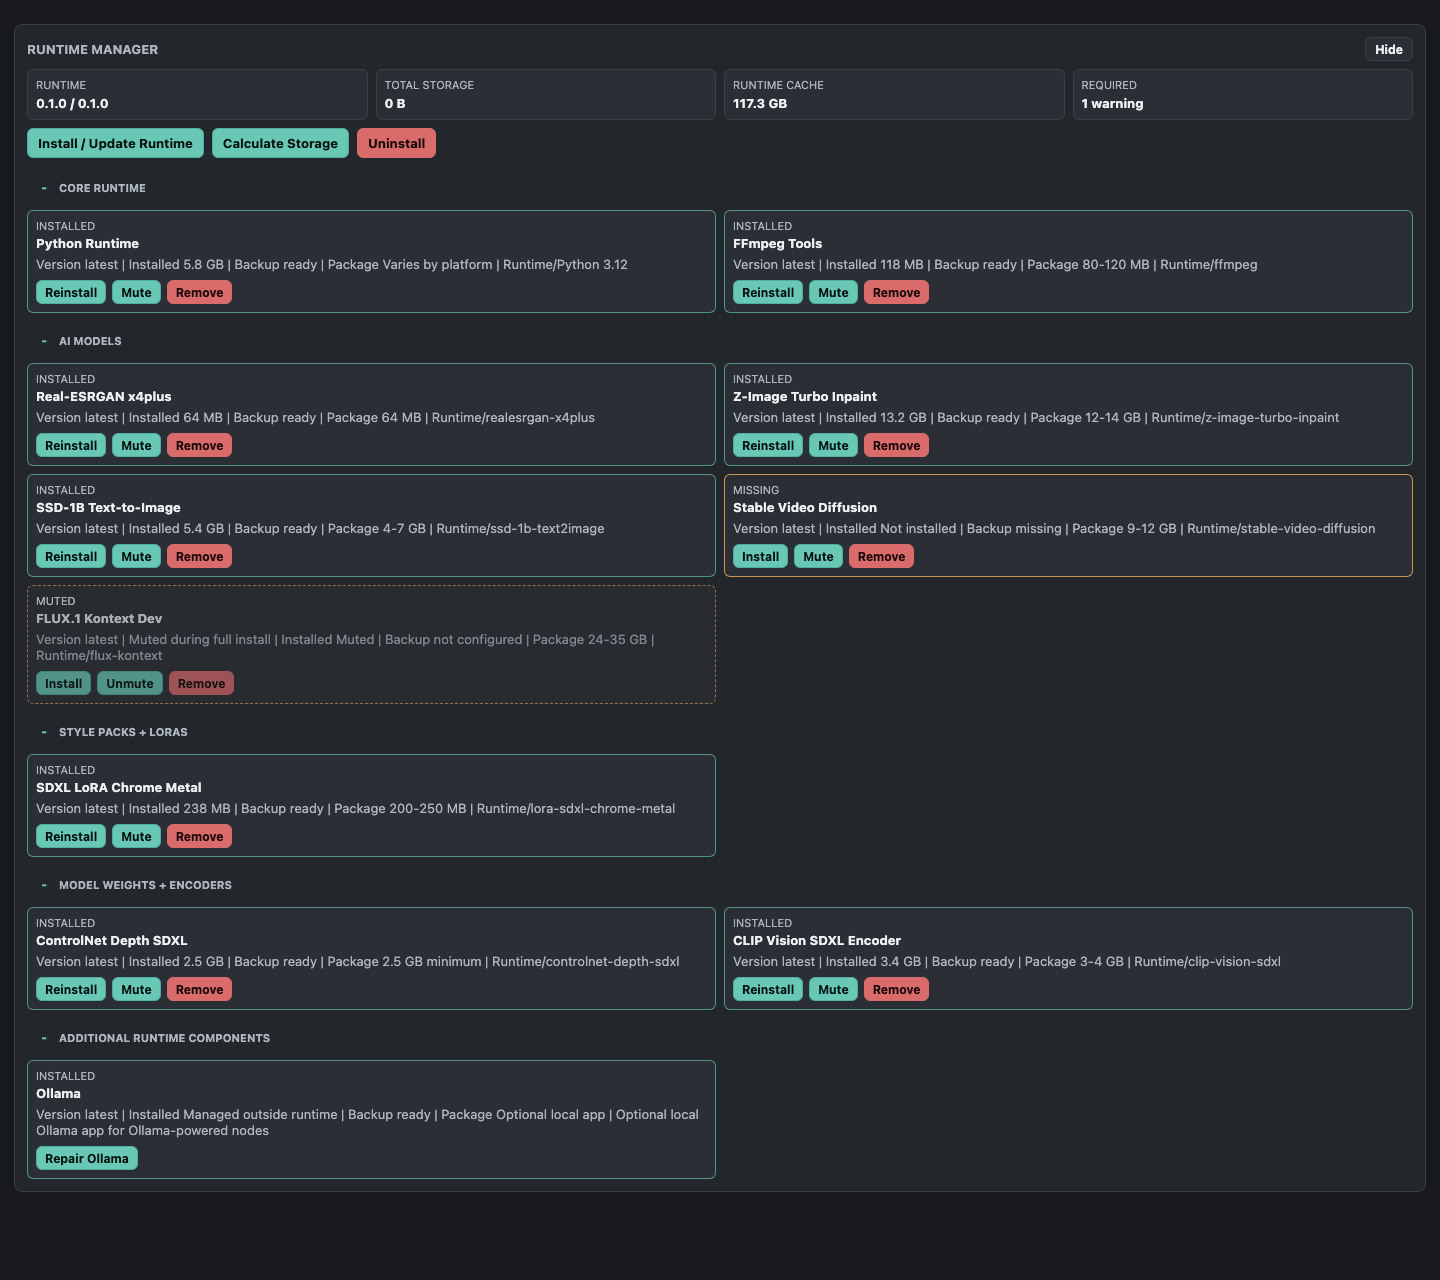
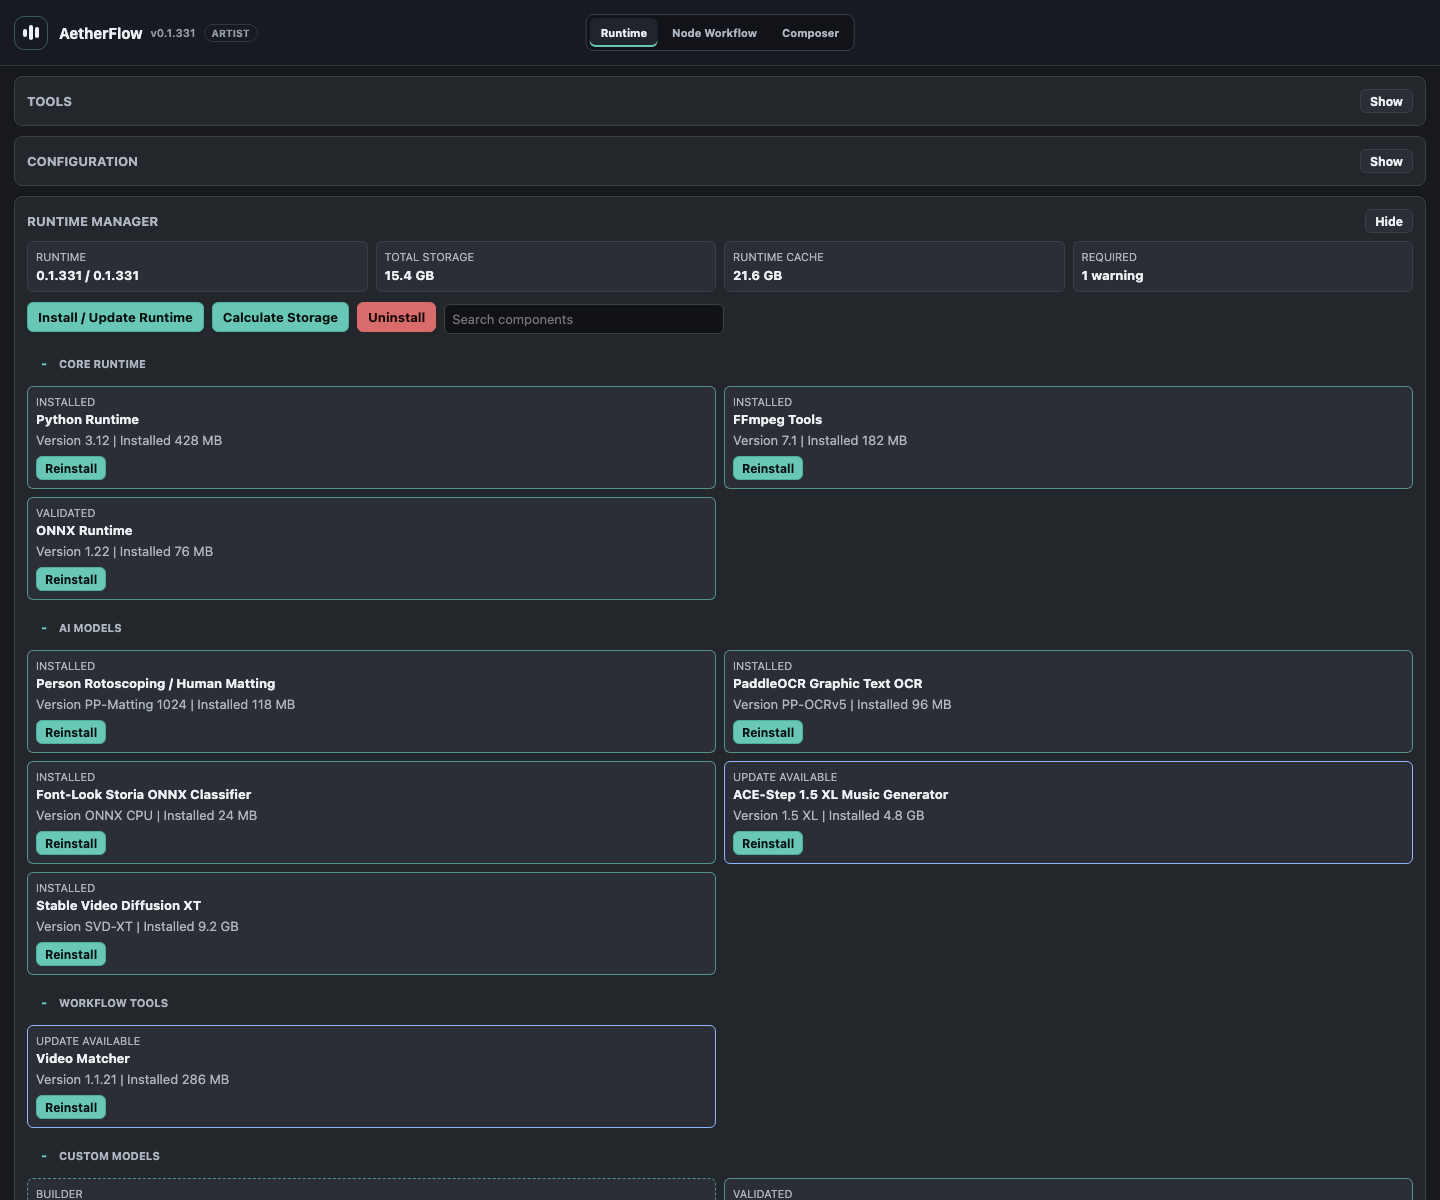
Refresh public interface screenshots

diff --git a/index.html b/index.html
@@ -37,6 +37,10 @@
         </div>
         <figure class="hero-media">
           <img src="assets/screenshots/aetherflow-cep-main.png" alt="AetherFlow main CEP panel">
+          <figcaption>
+            <strong>Main Runtime Workspace</strong>
+            <span>Prompt assistance, image tools, Project Organizer, Configuration, and Runtime Manager, with direct navigation to Node Workflow and Composer.</span>
+          </figcaption>
         </figure>
       </section>
 
@@ -93,9 +97,22 @@
           <h2>Extension surfaces</h2>
         </div>
         <div class="shot-grid">
-          <figure><img src="assets/screenshots/aetherflow-cep-configuration.png" alt="AetherFlow configuration panel"><figcaption>Configuration</figcaption></figure>
-          <figure><img src="assets/screenshots/aetherflow-runtime-manager.png" alt="AetherFlow runtime manager"><figcaption>Runtime Manager</figcaption></figure>
-          <figure><img src="assets/screenshots/node-workspace.png" alt="AetherFlow node workspace"><figcaption>Node Workflow Workspace</figcaption></figure>
+          <figure>
+            <img src="assets/screenshots/aetherflow-cep-configuration.png" alt="AetherFlow configuration panel">
+            <figcaption><strong>Configuration</strong><span>Controls output and cache preferences, user profile and analytics settings, updates, credentials, and Online or Offline runtime deployment.</span></figcaption>
+          </figure>
+          <figure>
+            <img src="assets/screenshots/aetherflow-runtime-manager.png" alt="AetherFlow runtime manager">
+            <figcaption><strong>Runtime Manager</strong><span>Installs, audits, repairs, mutes, and reports status for workflow models, native plugins, Python helpers, audio tools, and custom components.</span></figcaption>
+          </figure>
+          <figure>
+            <img src="assets/screenshots/node-workspace.png" alt="AetherFlow node workspace">
+            <figcaption><strong>Node Workflow Workspace</strong><span>Builds project-bound workflow graphs with tabs, source bindings, reusable nodes, groups, inspector controls, console output, and presets.</span></figcaption>
+          </figure>
+          <figure>
+            <img src="assets/screenshots/aetherflow-animation-composer.png" alt="AetherFlow Animation Composer workspace">
+            <figcaption><strong>Animation Composer</strong><span>Builds editable motion stacks from library blocks, previews the shared keyframe plan, and applies the result to selected After Effects layers.</span></figcaption>
+          </figure>
         </div>
       </section>
 

diff --git a/styles.css b/styles.css
@@ -285,7 +285,7 @@ li {
 
 .shot-grid {
   display: grid;
-  grid-template-columns: repeat(3, minmax(0, 1fr));
+  grid-template-columns: repeat(2, minmax(0, 1fr));
   gap: 16px;
 }
 
@@ -296,13 +296,18 @@ figure {
 
 figure img {
   width: 100%;
-  aspect-ratio: 16 / 10;
-  object-fit: cover;
+  height: auto;
 }
 
 figcaption {
+  display: grid;
+  gap: 5px;
   padding: 12px 14px;
   color: var(--muted);
+}
+
+figcaption strong {
+  color: var(--text);
   font-weight: 800;
 }
 

diff --git a/README.md b/README.md
@@ -14,29 +14,35 @@ Source code and internal development materials are private. This repository cont
 
 ## Screenshots
 
-### Main CEP Panel
+### Main Runtime Workspace
 
-![AetherFlow main CEP panel](assets/screenshots/aetherflow-cep-main.png)
+![AetherFlow main Runtime workspace](assets/screenshots/aetherflow-cep-main.png)
 
-The main panel is the artist-facing workspace for prompt assistance, image generation, upscaling, frame blending, Project Organizer actions, status output, Configuration, Runtime Manager, and the node workflow workspace.
+The Runtime workspace provides quick access to Prompt Assistant, image generation, mask/inpaint, upscaling, slow motion, Project Organizer, Configuration, and Runtime Manager. The shared header switches directly between Runtime, Node Workflow, and Composer.
 
 ### Configuration
 
 ![AetherFlow configuration panel](assets/screenshots/aetherflow-cep-configuration.png)
 
-Configuration manages install preferences, runtime cache location, update checks, user profile fields, and Online/Offline install mode.
+Configuration stores output/cache preferences, user profile, usage analytics preference, update checks, Hugging Face token input, Online/Offline mode, and Runtime cache settings for studio or offline deployment.
 
 ### Runtime Manager
 
 ![AetherFlow runtime manager](assets/screenshots/aetherflow-runtime-manager.png)
 
-Runtime Manager shows installed, missing, and muted components grouped by core tools, AI models, style packs, encoders, optional services, and native AE plugins.
+Runtime Manager is the install and status surface for local models, native plugin packages, Python helpers, source-cache restores, offline cache behavior, and storage audits. It groups native and core runtime pieces, workflow models, generation models, audio/TTS tools, and custom components.
 
 ### Node Workflow Workspace
 
 ![AetherFlow node workflow workspace](assets/screenshots/node-workspace.png)
 
-The node workflow workspace is the visual editor for multi-step After Effects automation. Users bind comp or layer sources, inspect node settings, run full workflows or branches, and use workflow presets.
+The node workspace is the project-bound visual editor for workflow graphs. It supports project tabs, source binding, reusable nodes, grouped workflow modules, inspector settings, workflow console output, and saved or imported presets.
+
+### Animation Composer
+
+![AetherFlow Animation Composer workspace](assets/screenshots/aetherflow-animation-composer.png)
+
+Composer provides a motion library, shared keyframe-plan preview, stackable and trimmable timeline blocks, and controls for timing, intensity, curves, direction, delay, and advanced motion settings. Apply writes the generated plan to selected AE layers; Composer preset persistence and its disabled AI tools remain in development.
 
 ## What AetherFlow Does
 

diff --git a/index.md b/index.md
@@ -8,6 +8,8 @@ Adobe After Effects extension for local AI-assisted creative workflows.
 
 ![AetherFlow main CEP panel](assets/screenshots/aetherflow-cep-main.png)
 
+The Runtime workspace provides quick access to Prompt Assistant, image generation, mask/inpaint, upscaling, slow motion, Project Organizer, Configuration, and Runtime Manager. The shared header switches directly between Runtime, Node Workflow, and Composer.
+
 ## Overview
 
 AetherFlow runs inside After Effects as a CEP/ZXP panel. It provides artist-facing tools for prompt-assisted image work, footage enhancement, OCR/template graphics, node-based workflow building, runtime management, and optional native AE plugin add-ons.
@@ -20,13 +22,25 @@ Large runtime dependencies and model weights are installed after the ZXP through
 
 ![AetherFlow configuration panel](assets/screenshots/aetherflow-cep-configuration.png)
 
+Configuration stores output/cache preferences, user profile, usage analytics preference, update checks, Hugging Face token input, Online/Offline mode, and Runtime cache settings for studio or offline deployment.
+
 ### Runtime Manager
 
 ![AetherFlow runtime manager](assets/screenshots/aetherflow-runtime-manager.png)
 
+Runtime Manager installs and reports status for local models, native plugin packages, Python helpers, source-cache restores, offline cache behavior, and storage audits. Components are grouped so artists can identify missing, muted, installed, or repairable workflow dependencies.
+
 ### Node Workflow Workspace
 
 ![AetherFlow node workflow workspace](assets/screenshots/node-workspace.png)
+
+The node workspace is the project-bound visual editor for workflow graphs. It supports project tabs, source binding, reusable nodes, grouped workflow modules, inspector settings, workflow console output, and saved or imported presets.
+
+### Animation Composer
+
+![AetherFlow Animation Composer workspace](assets/screenshots/aetherflow-animation-composer.png)
+
+Composer provides a motion library, shared keyframe-plan preview, stackable and trimmable timeline blocks, and controls for timing, intensity, curves, direction, delay, and advanced motion settings. Apply writes the generated plan to selected AE layers; Composer preset persistence and its disabled AI tools remain in development.
 
 ## Workflow Areas
 
